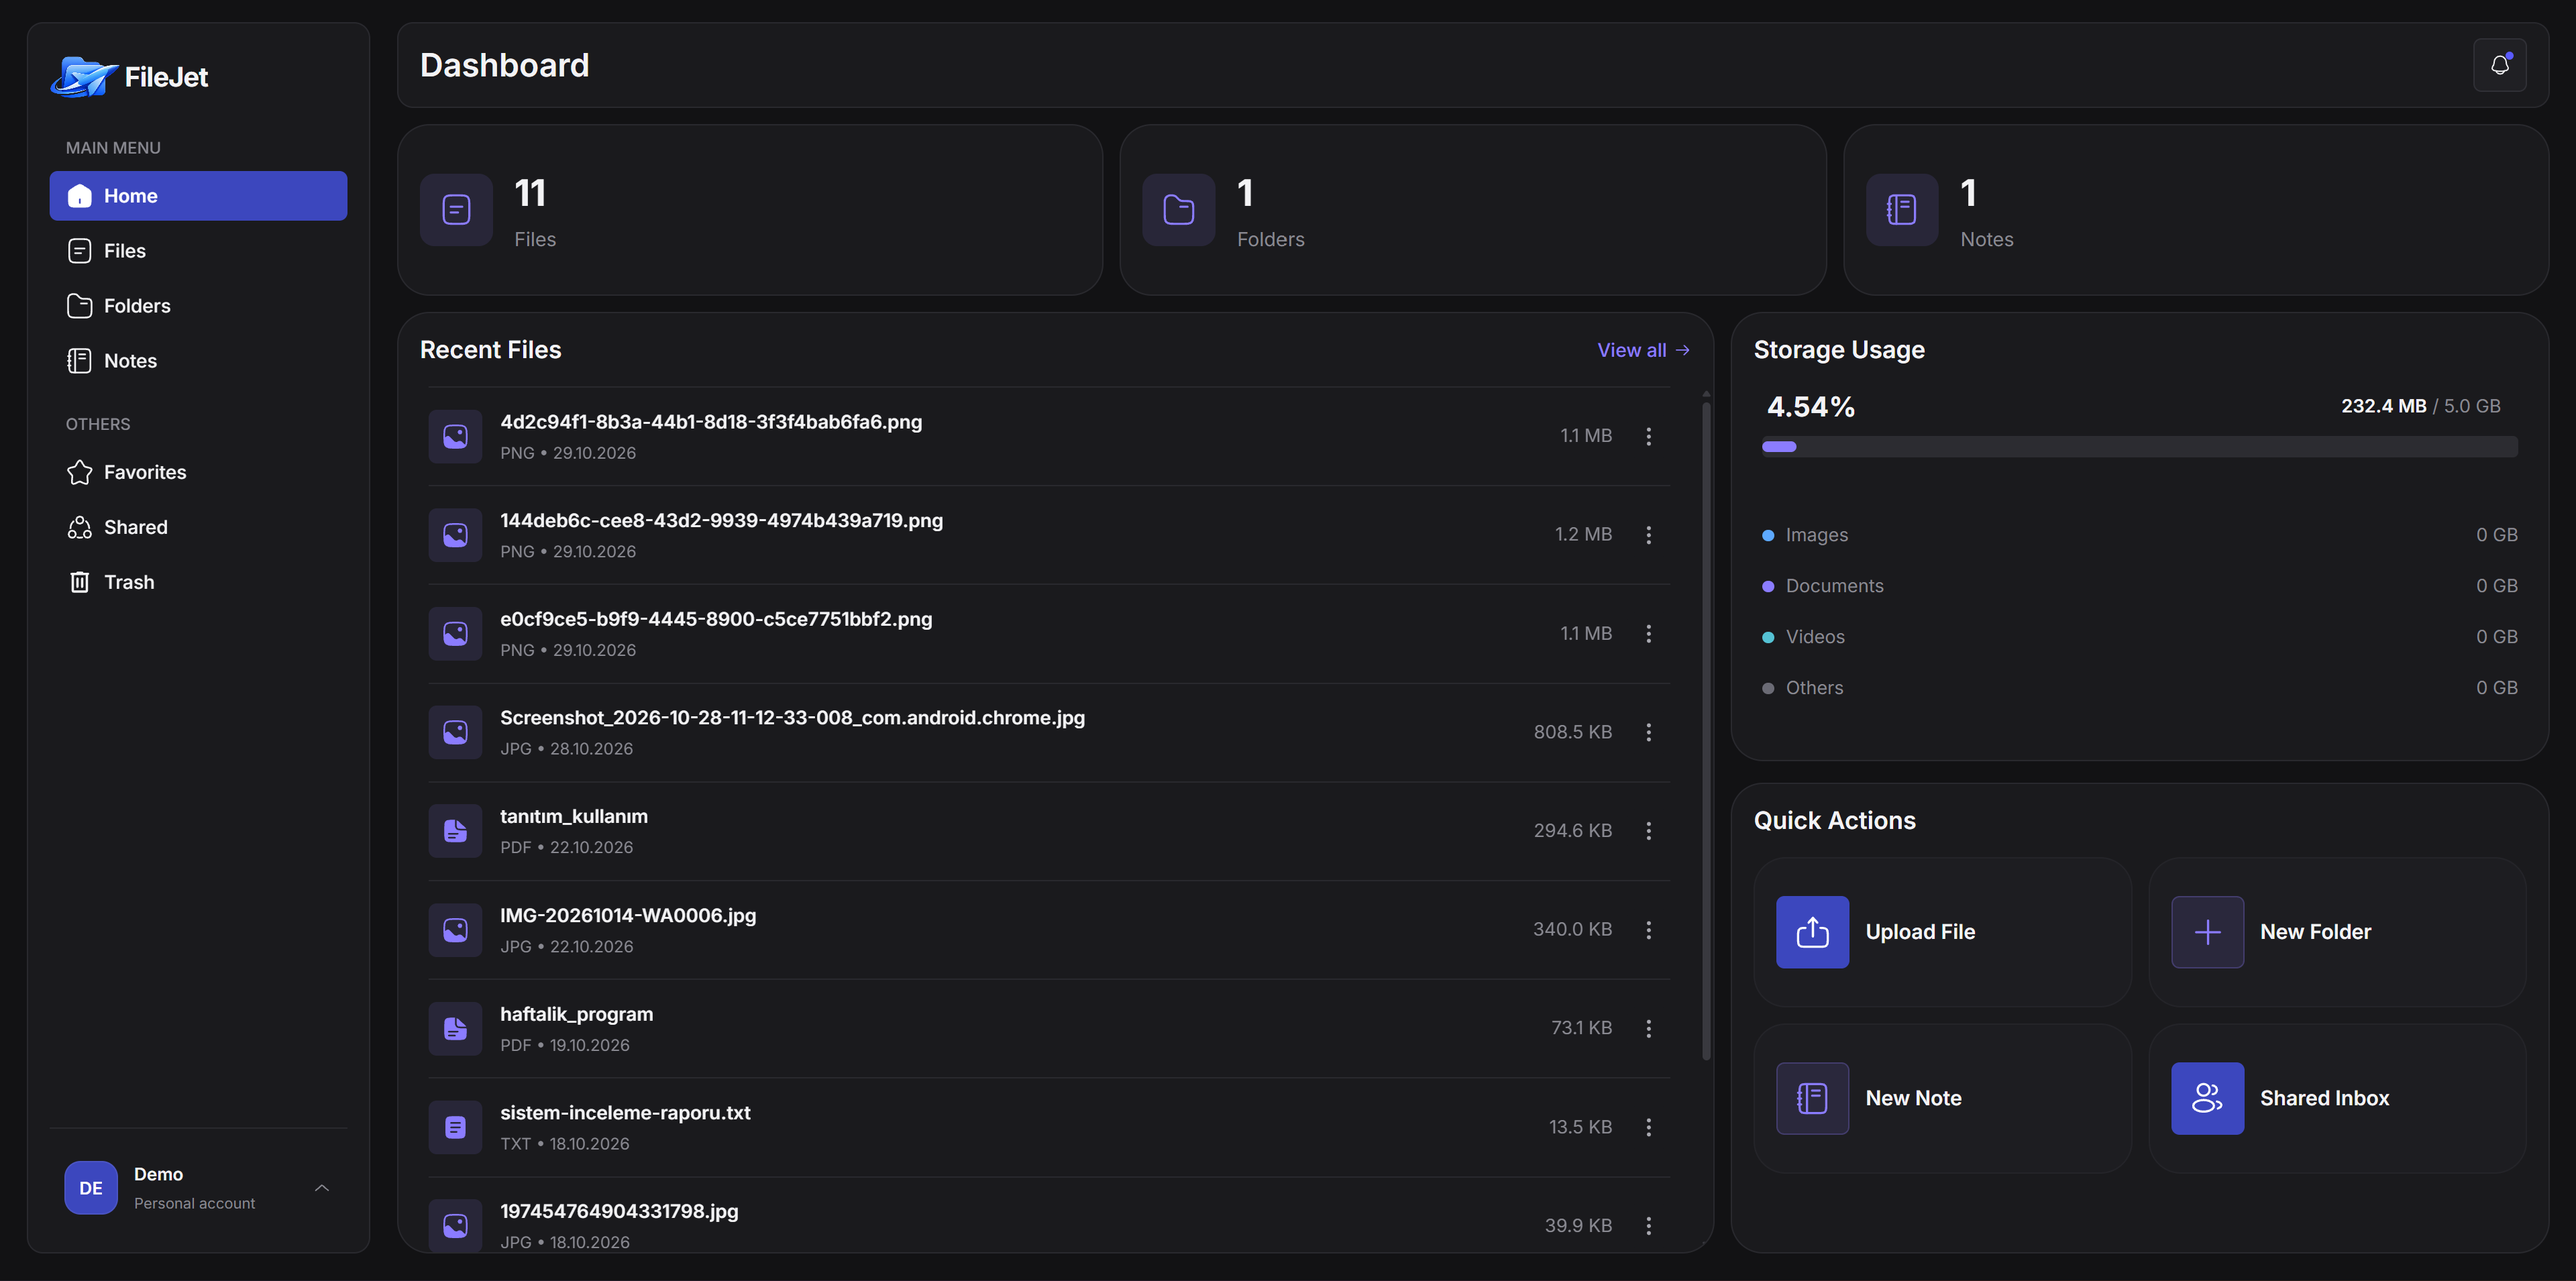
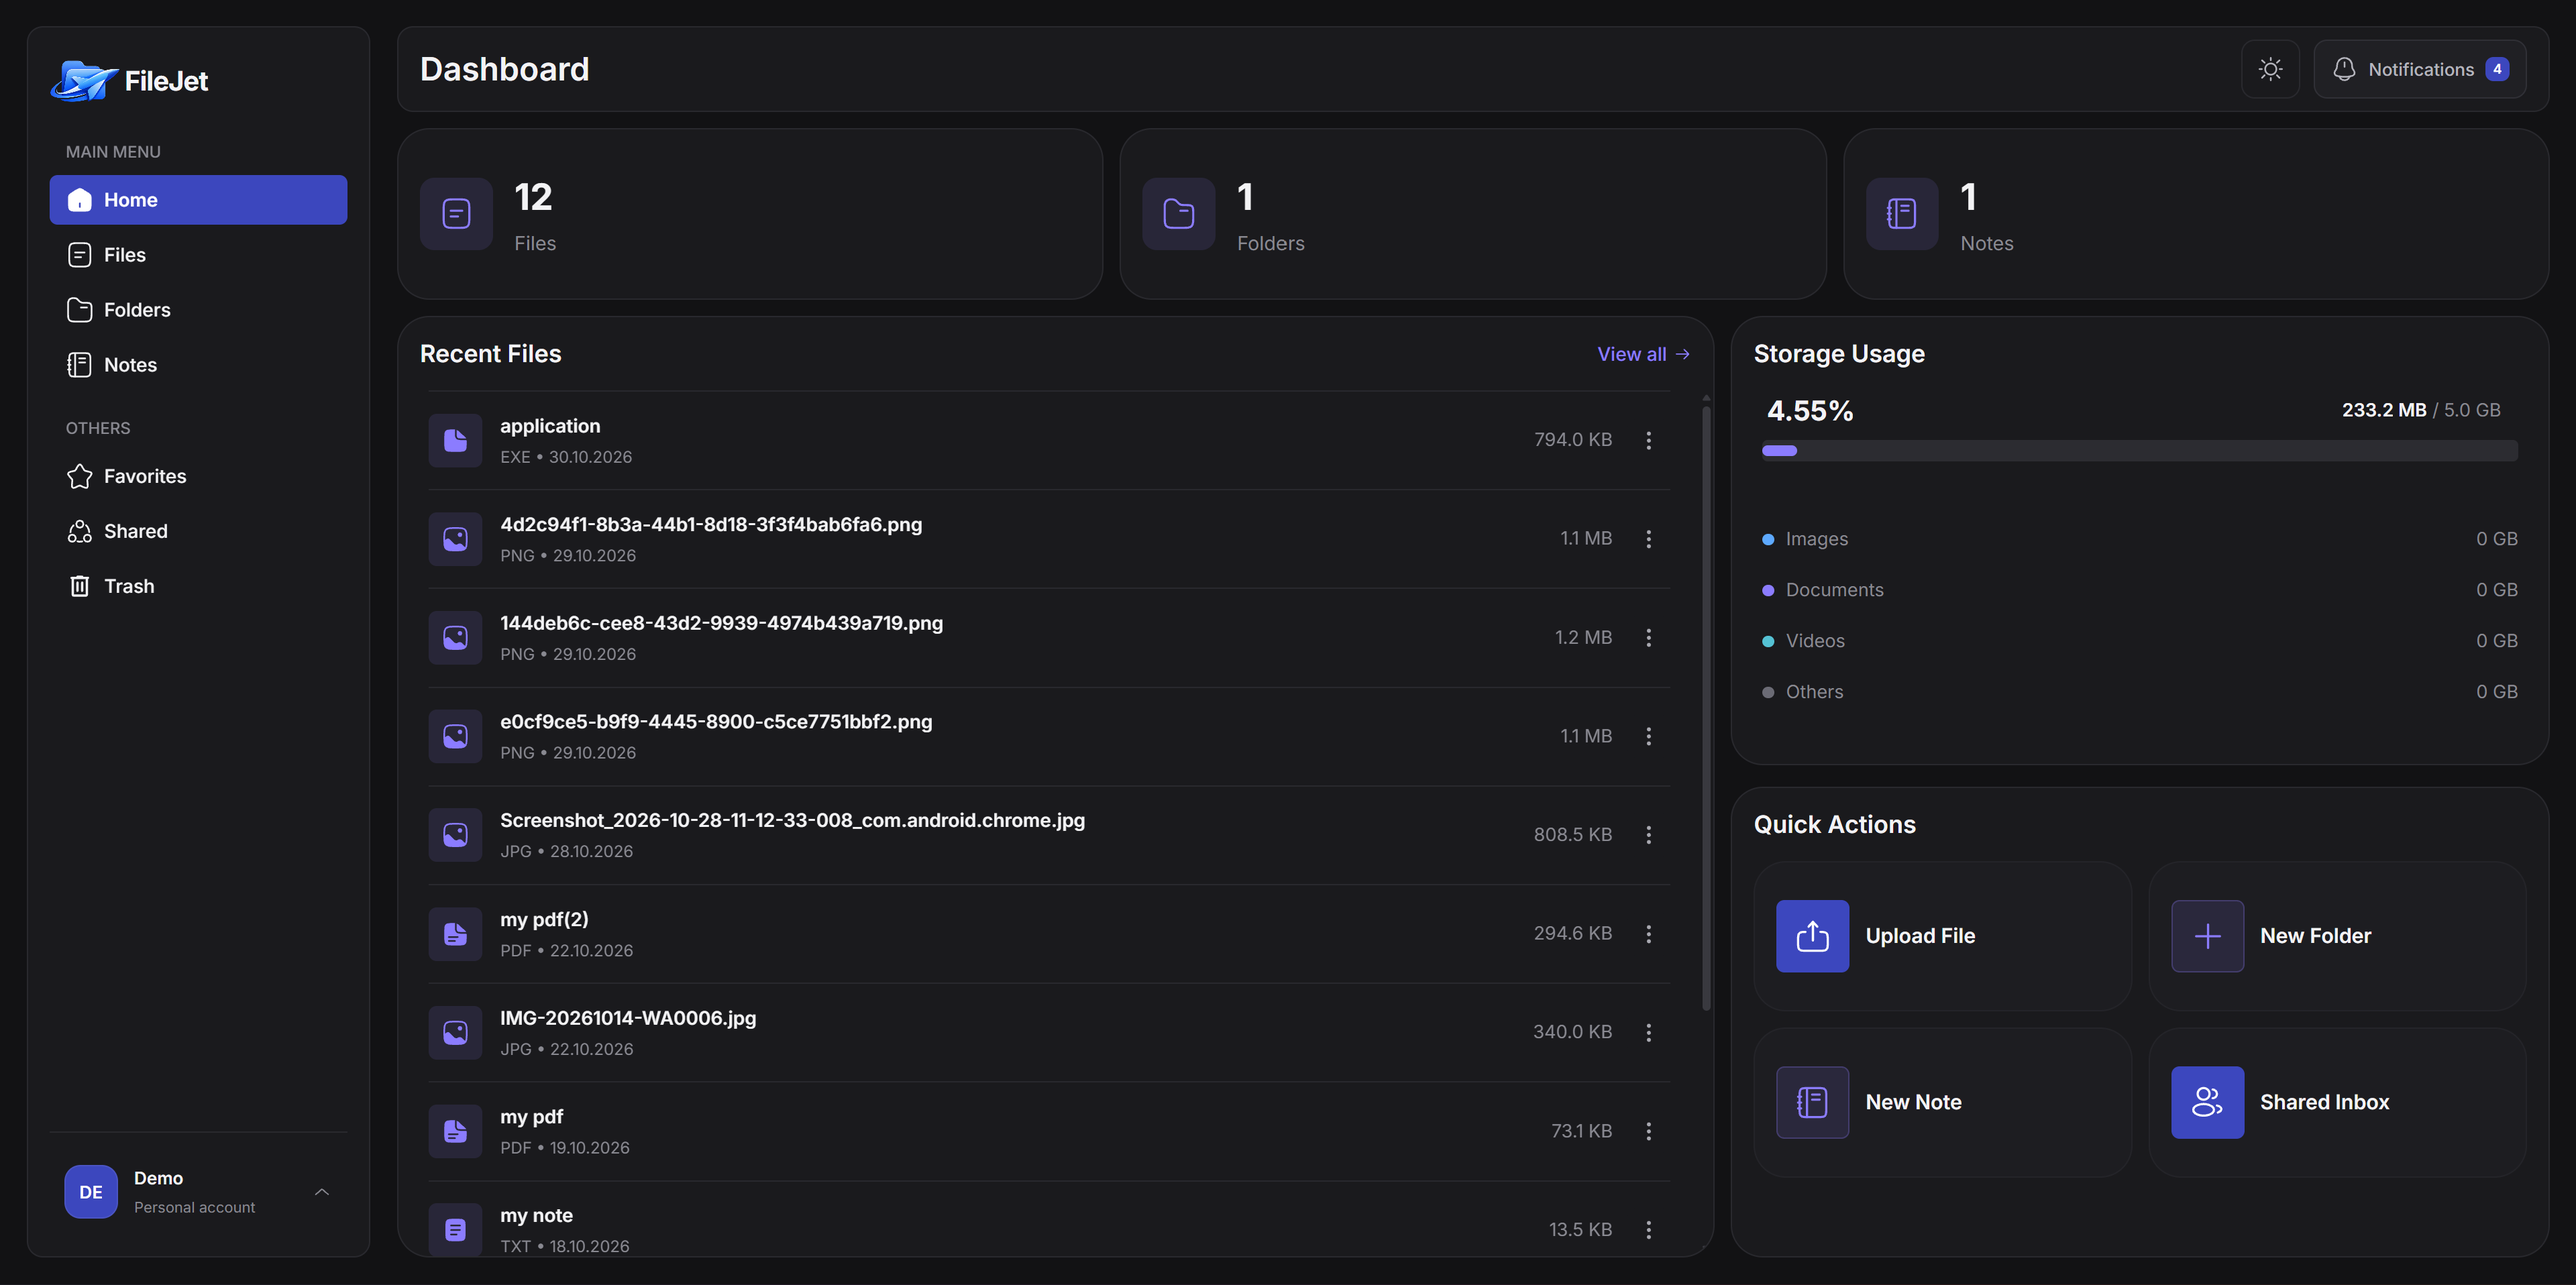
docs: refresh dashboard screenshot and mobile layout notes

diff --git a/README.md b/README.md
@@ -45,8 +45,9 @@ The application is self-hosted. PostgreSQL stores users and item metadata, while
 
 - A desktop sidebar with the account menu anchored at the bottom; on compact screens, navigation opens as a drawer and the account menu stays in the top-right corner.
 - Compact two-column file cards on phones, with smaller image previews.
-- List views retain table columns on mobile, with horizontal scrolling inside the table.
-- Responsive toolbars, horizontally scrollable type filters, and touch-friendly controls.
+- List views switch to individual cards on mobile across files, folders, notes, favorites, Shared, Trash, and folder contents; desktop views retain their table columns.
+- Share links, access settings, expiration details, and Trash actions stay inside their mobile cards, with pagination below the list.
+- Responsive toolbars, type filters that wrap on mobile, and touch-friendly controls.
 
 ### Sharing
 
@@ -75,7 +76,7 @@ The application is self-hosted. PostgreSQL stores users and item metadata, while
 - Collapsible Profile and Password sections; Profile starts open.
 - A themed confirmation dialog for unsaved changes during in-app navigation.
 - An in-app notification center for uploads, file changes, sharing updates, account changes, and operation errors, with unread filters and read/dismiss controls.
-- A desktop header with live storage usage and a theme shortcut; storage warnings appear at 85% and 100% usage.
+- A desktop header with a theme shortcut and notification controls. Storage usage remains on the dashboard, with storage warnings at 85% and 100% usage.
 
 Profile and password changes are stored in PostgreSQL. Appearance and browsing preferences are stored per account in the current browser's `localStorage`; they do not sync across devices.
 
@@ -277,10 +278,10 @@ File paths resolve relative to the process working directory as `storage/<userId
 - [x] Username, email, and password settings
 - [x] Accent colors and default grid/list preferences
 - [x] Light, dark, and system themes with account-specific preferences
-- [x] Responsive navigation, compact mobile cards, and scrollable mobile tables
+- [x] Responsive navigation, mobile card list views, and wrapping mobile filters
 - [x] Desktop sidebar account menu and mobile header account menu
 - [x] In-app notification history, unread controls, and storage warnings
-- [x] Desktop header storage usage and theme shortcut
+- [x] Desktop header theme shortcut and notification controls
 - [x] Custom items per page
 - [x] Collapsible account sections and unsaved-change confirmation
 
